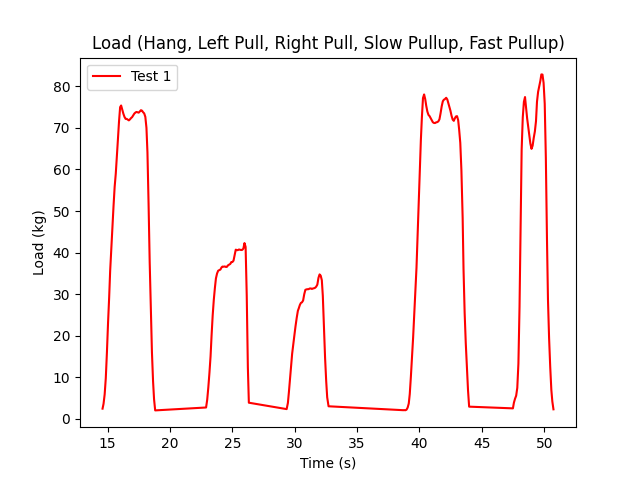
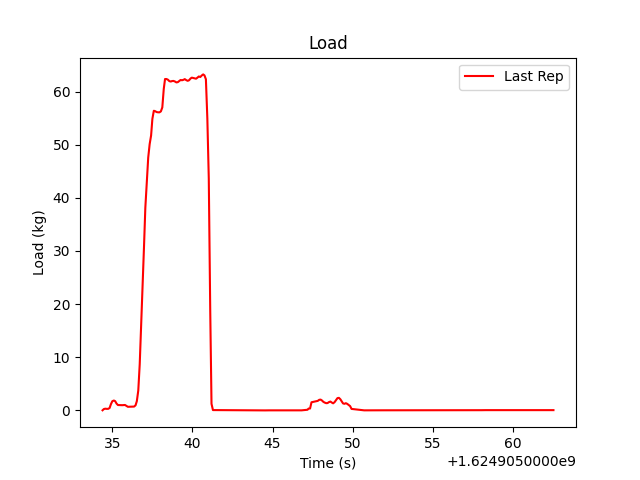
mini eval from db

diff --git a/evaluations/evals.py b/evaluations/evals.py
@@ -1,7 +1,35 @@
 from database import Database
+import numpy as np
+import pandas as pd
+import matplotlib.pyplot as plt
 
+
+def plot_load(t,load):
+	fig = plt.figure()
+	ax1 = fig.add_subplot(111)
+	ax1.set_title("Load")    
+	ax1.set_xlabel('Time (s)')
+	ax1.set_ylabel('Load (kg)')
+	ax1.plot(t,load, c='r', label='Last Rep')
+	leg = ax1.legend()
+	#plt.show()
+	plt.savefig("Load.png")
 
 if __name__ == "__main__":
-  d = Database()
-  d._set_user(uuid="us3r")
-  d._get_maxload()
+    d = Database()
+    d._set_user(uuid="us3r")
+    d._get_maxload()
+    print (d._coll_raw)
+    data = pd.DataFrame(list(d._coll_raw.find()))
+    print (data)
+    timemax=data["time"].max()
+    last20minutes=timemax-60*1
+    lc=data["loadcurrent"]>0
+    l20m=data["time"]>last20minutes
+    print (data["loadcurrent"])
+    print (data[lc][l20m]["loadcurrent"])
+    l20m_maxload = data[lc][l20m]["loadcurrent"].max()
+    plot_load(data[lc][l20m]["time"],data[lc][l20m]["loadcurrent"])
+    print(l20m_maxload)
+
+
